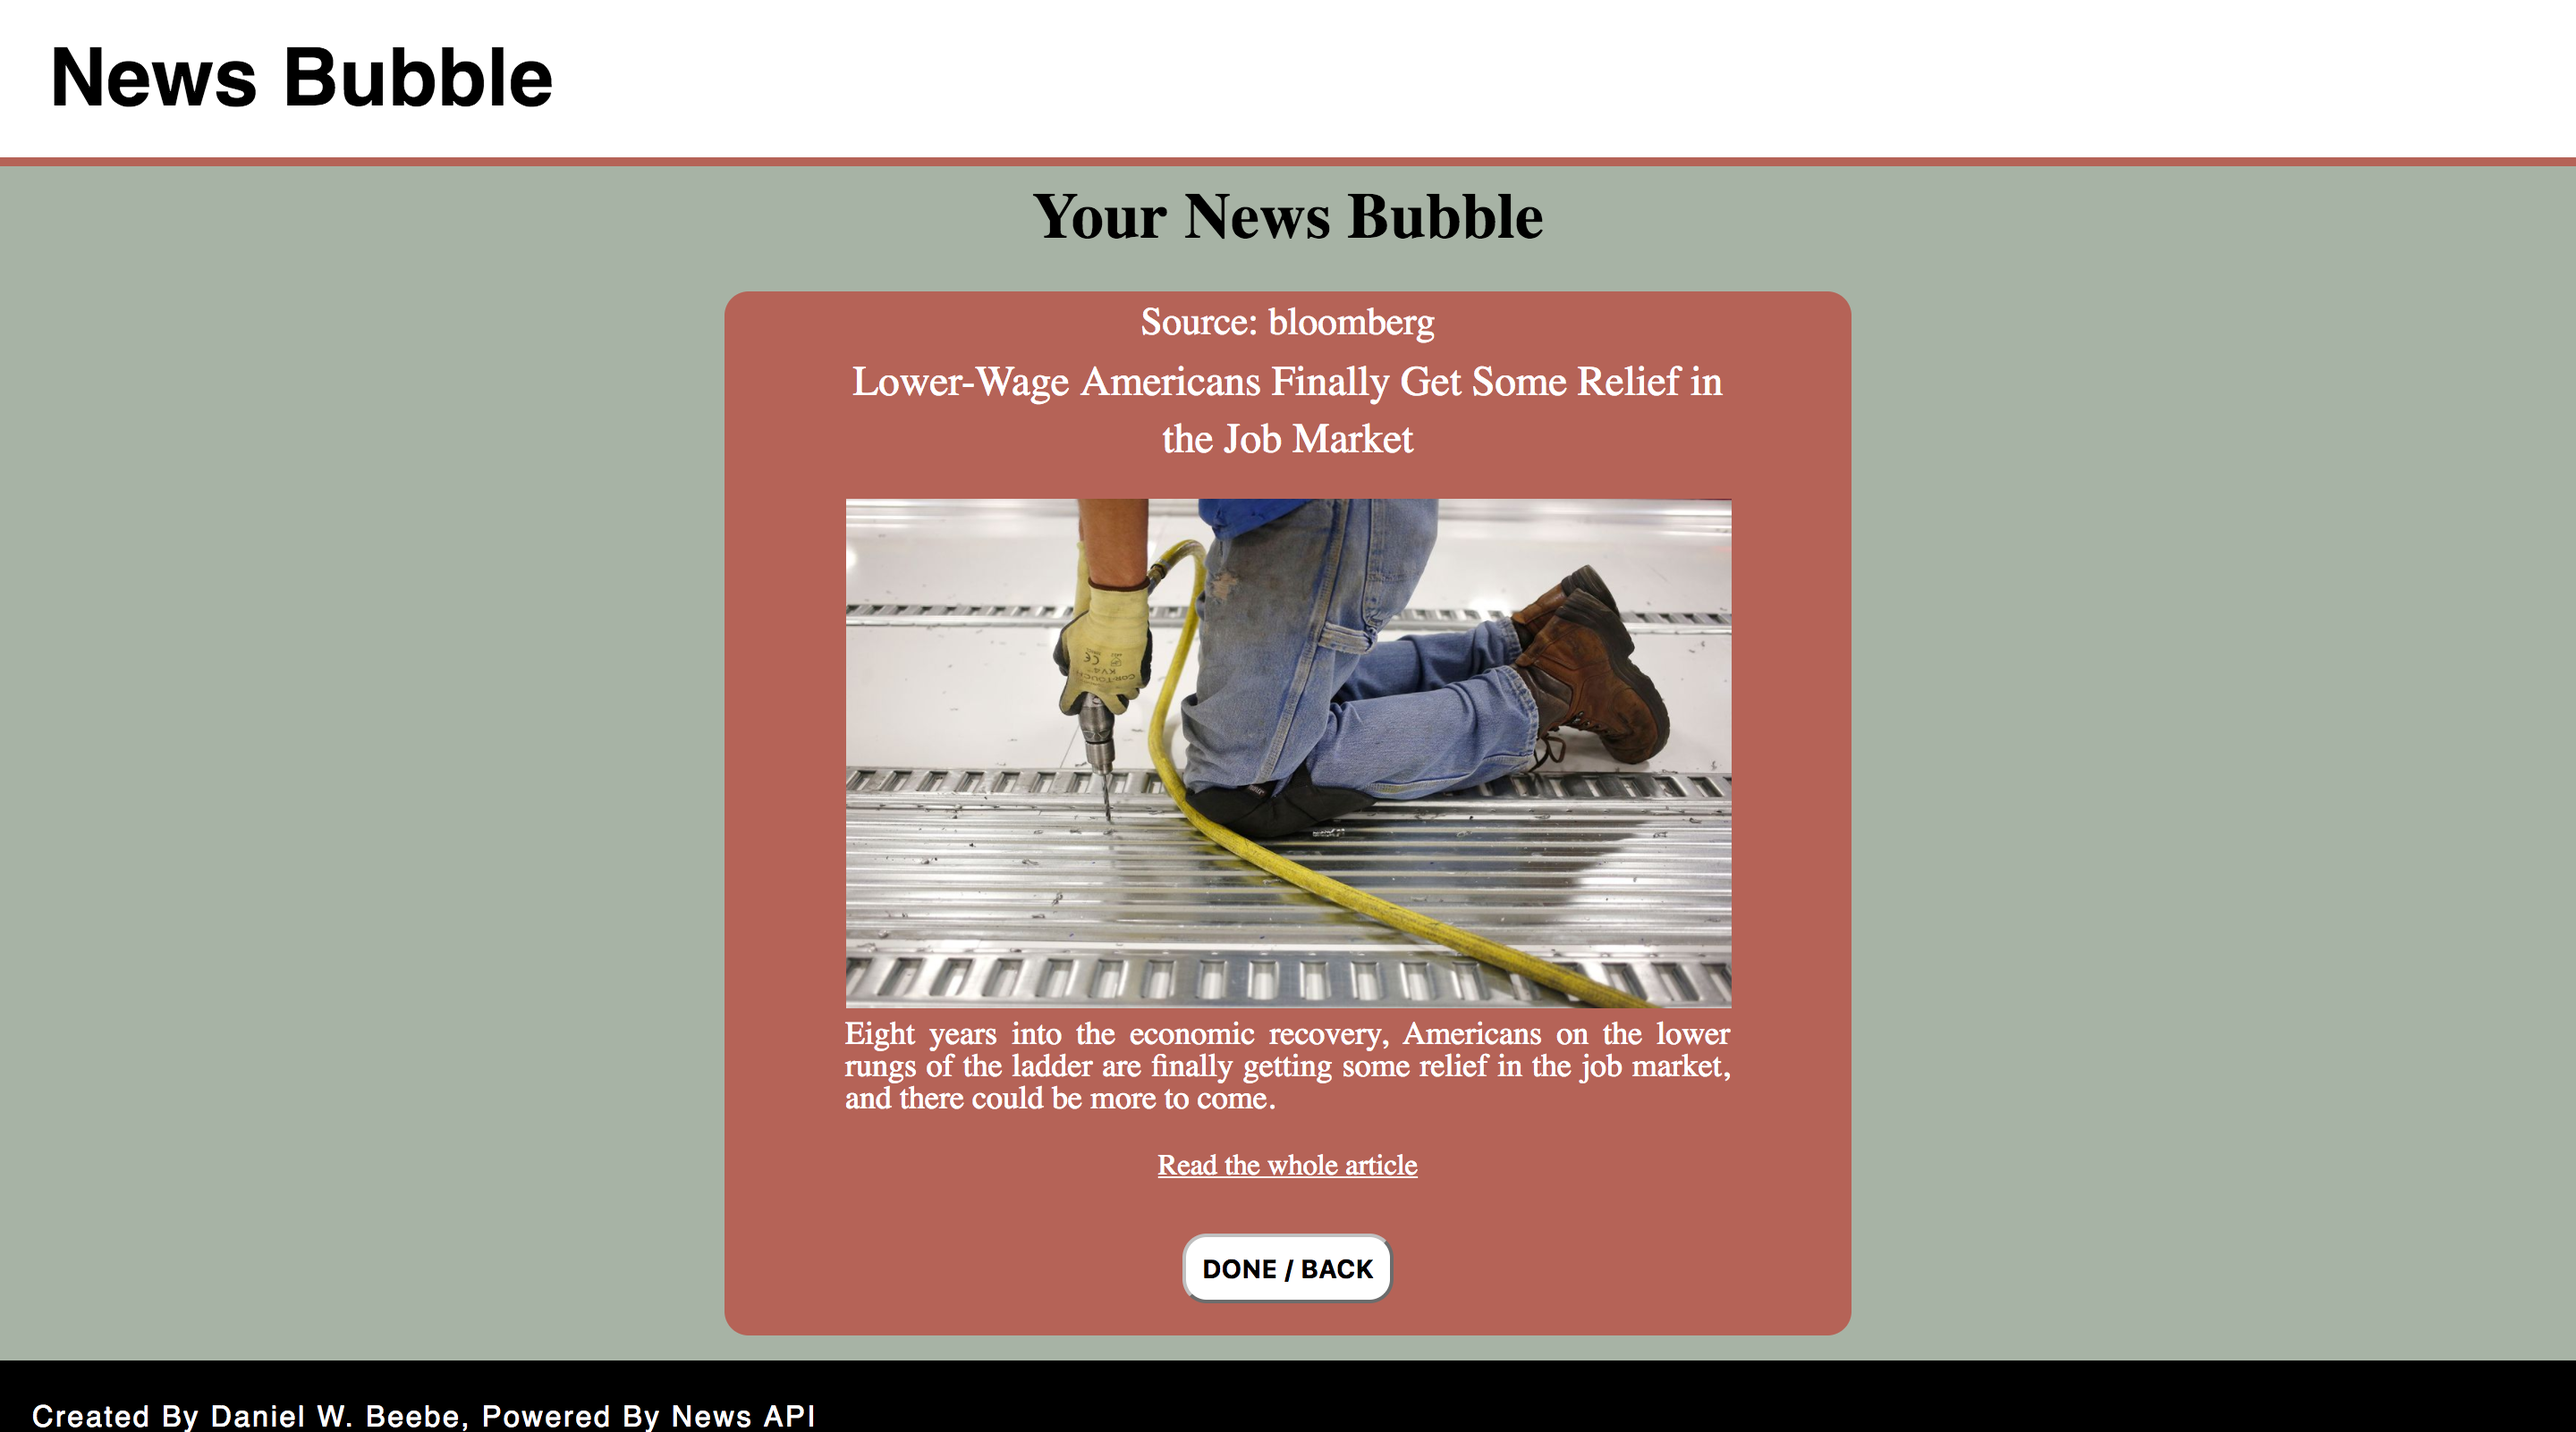
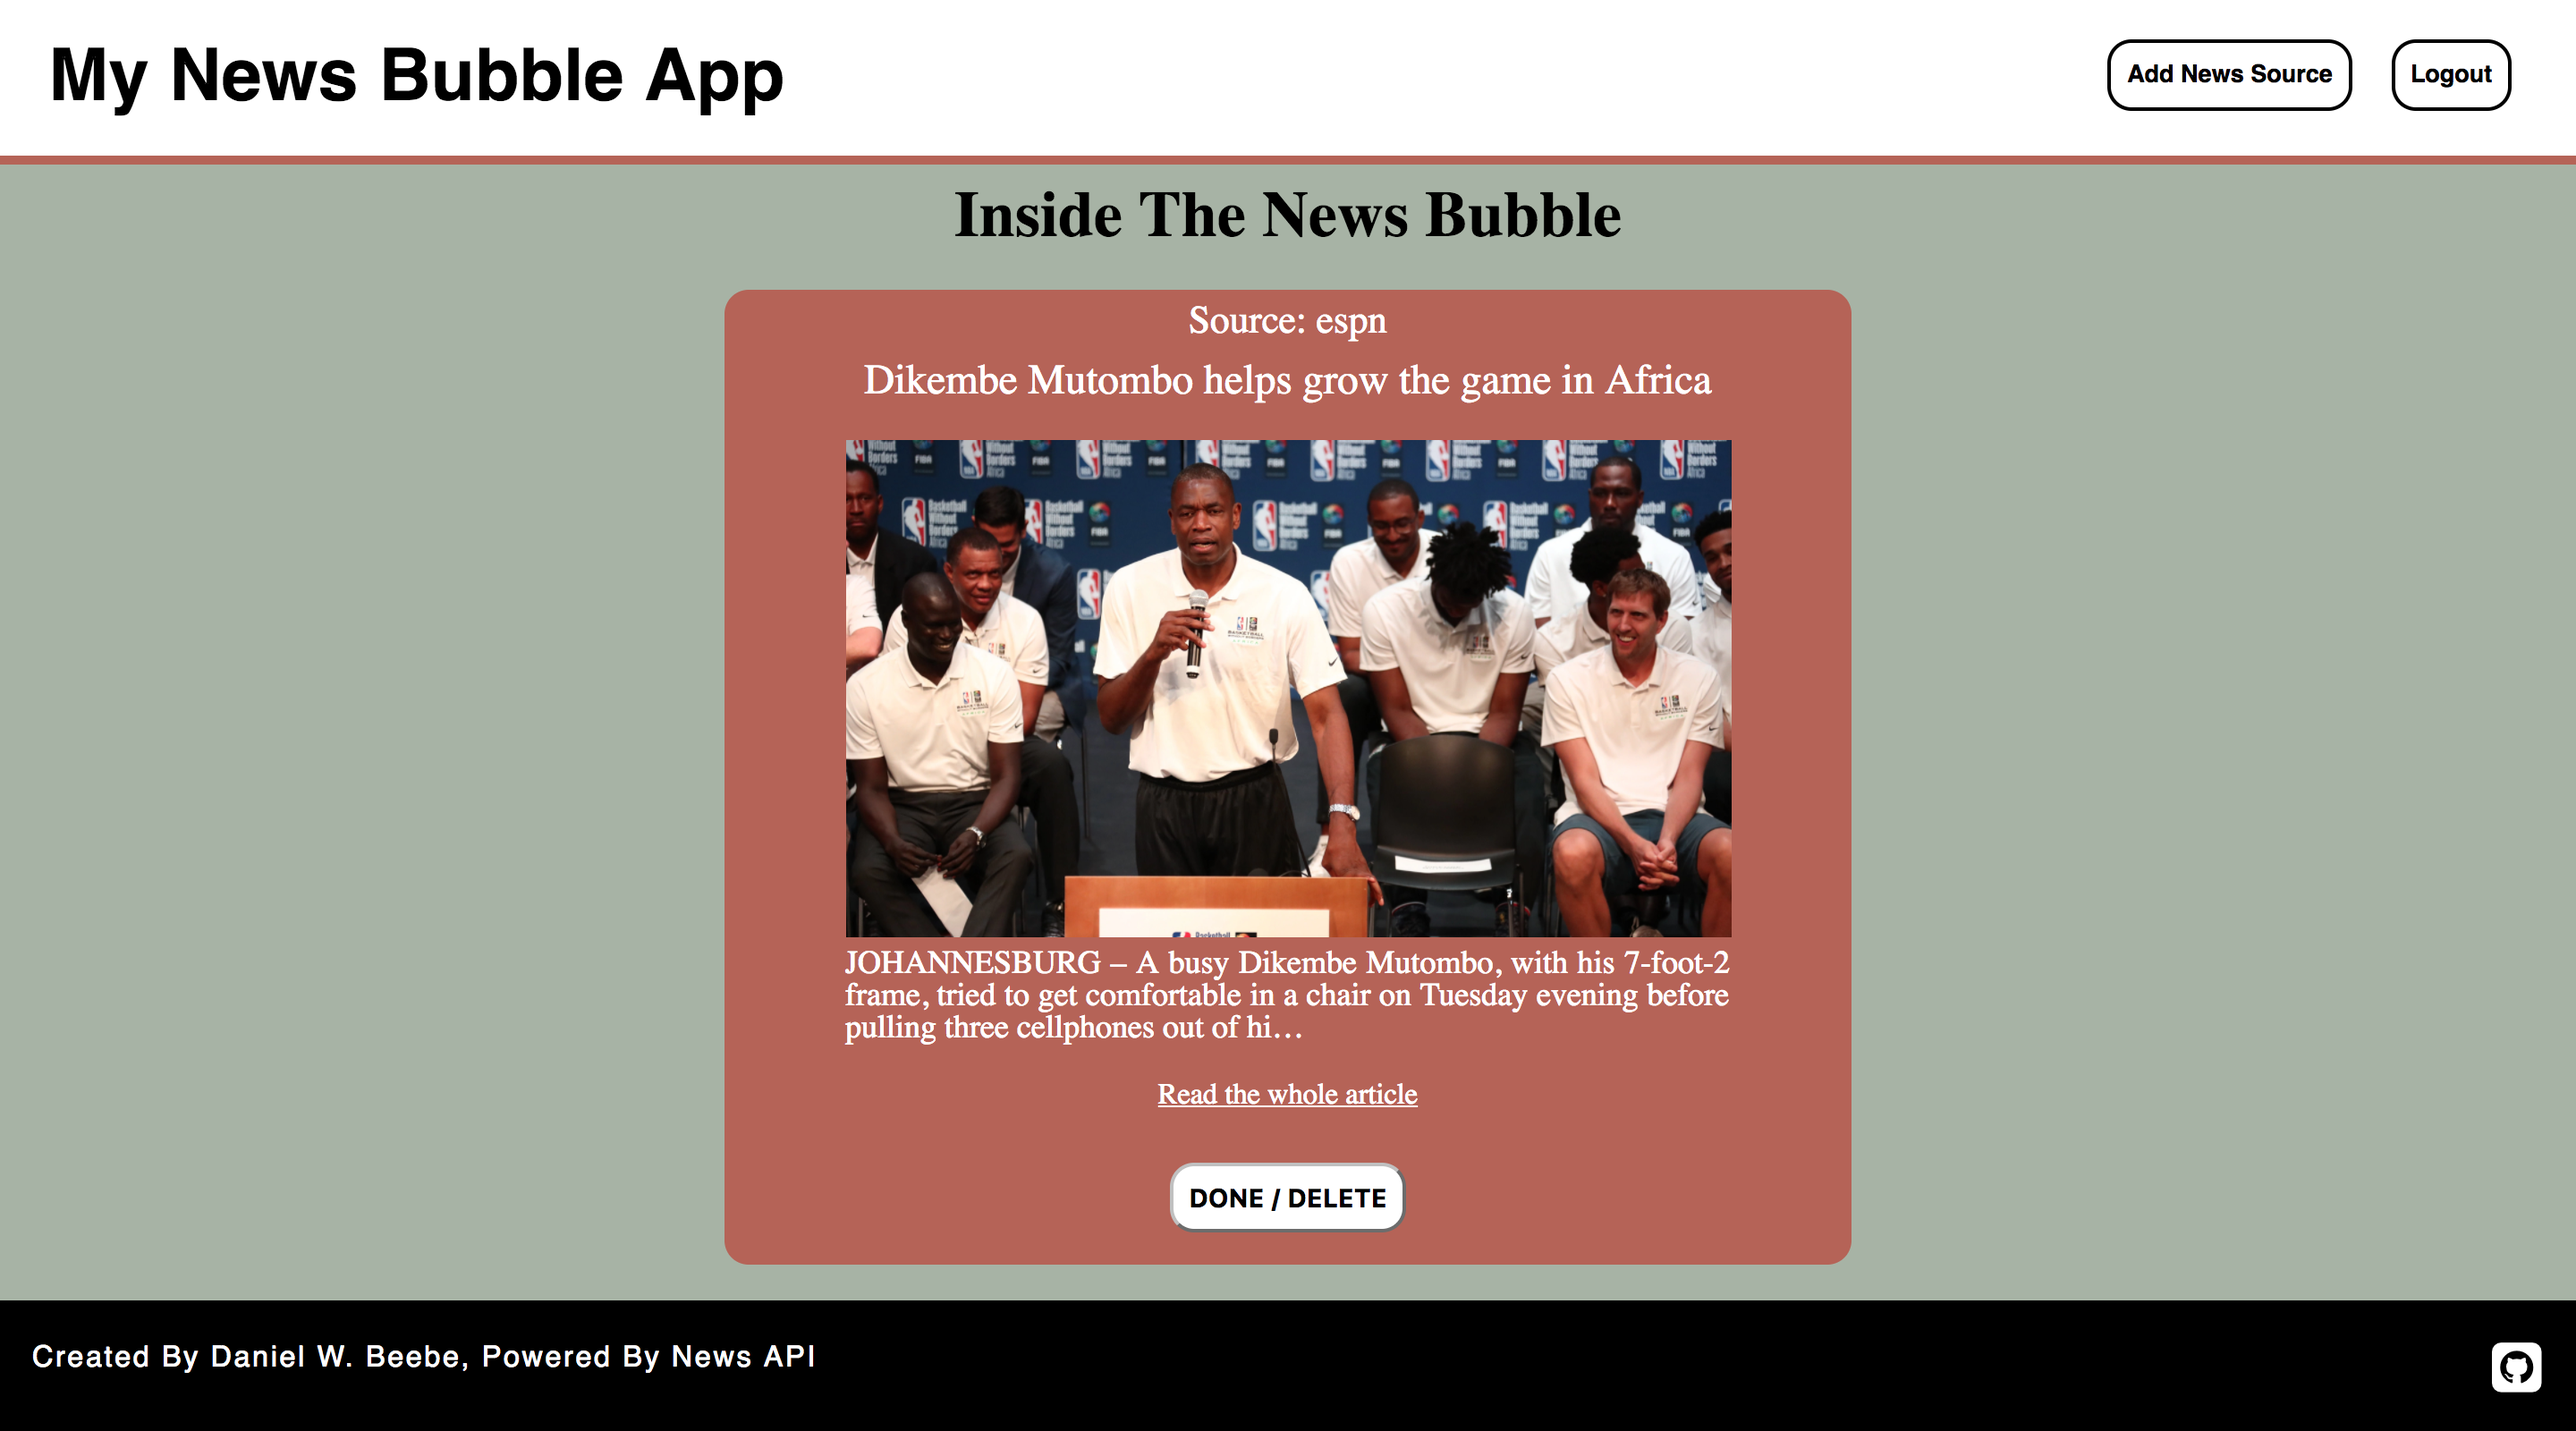
edits to navigation and readme file

diff --git a/readme.md b/readme.md
@@ -6,9 +6,11 @@
 
 ## What is 'My News Bubble'?
 
-'My News Bubble' is an app in which users can register and create a unqiue profile and then select from a menu of news sources to read the top news story from that source.
+'My News Bubble' is an app in which users can register and create a unqiue selection of favorite news sources.
 
-When a user logs in, the app lists over a dozen major news sources to choose from. The user simply has to click a button to add the news source to that users 'bubble' and then read the title and summary of the top story from the article.  A photo from the article will also appear, as well as a link to the original news source.
+When a user logs in, the app lists over a dozen major news sources to choose from. The user simply has to click a button to add the news source to that user's 'bubble'. The user is then redirected to the bubble and can read the article; or the user can navigate back to the menu of source options and continue adding news sources.
+
+After the user has read an article, the user can remove a news article by clicking a button beneath the article.
 
 The app is deployed at: https://news-bubble.herokuapp.com/
 
@@ -21,7 +23,7 @@ The app utilizes the following technologies:
 * JavaScript (functions for models, controllers, routes, and config file)
 * SQL (migration file, communicate with database with tables for registered users and news sources selected by users)
 * Express.js (for the web app framework)
-* API Call (retreieve news data to display)
+* API Call (retrieve news data to display)
 
 ### Notes on App Structure
 
